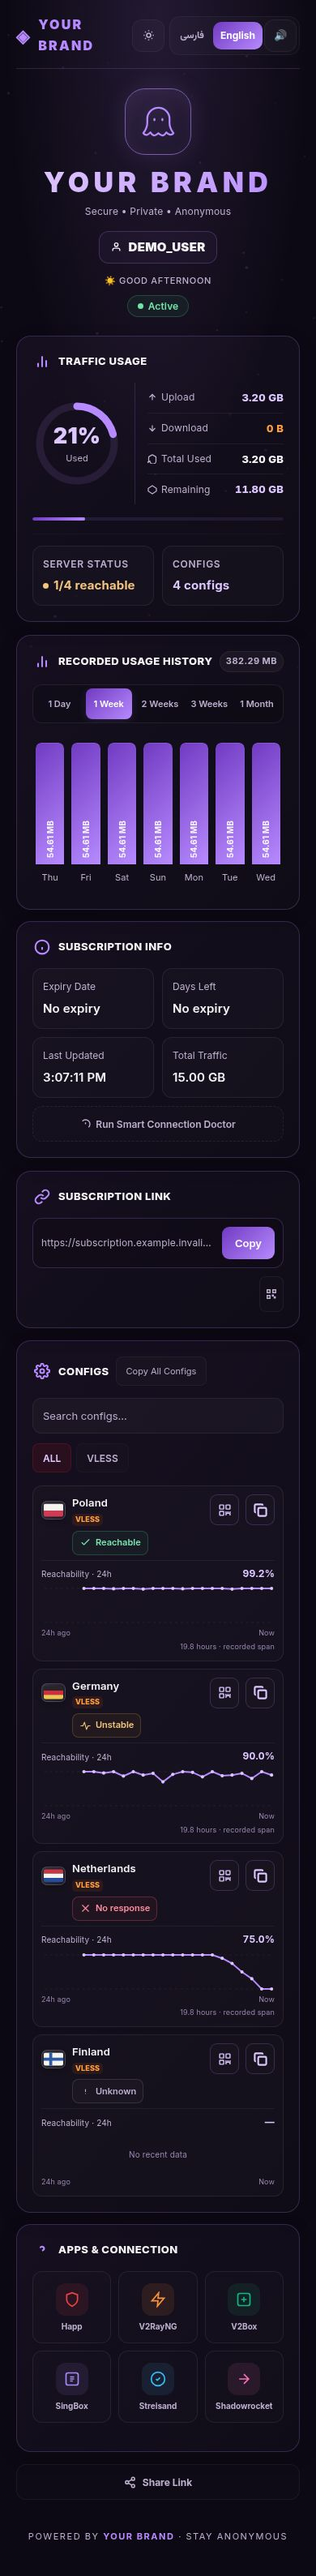
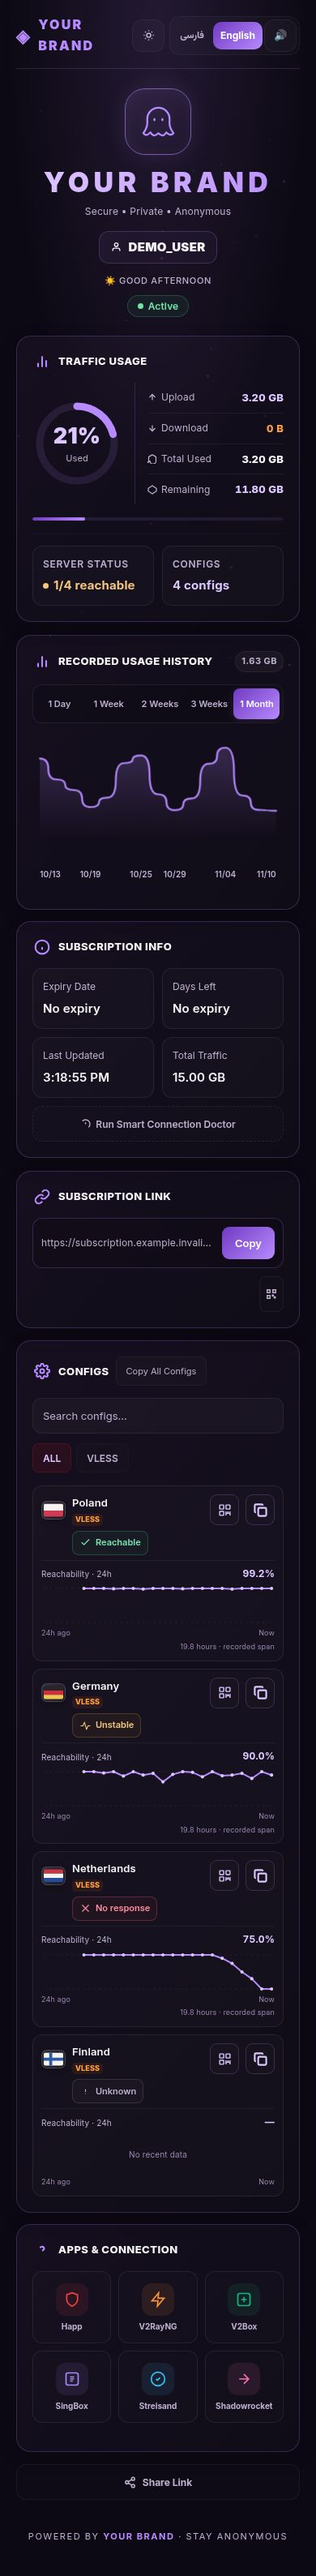
Show different chart ranges across all four themes

Changed region(s): [[0.0923, 0.2493, 0.8923, 0.3428]]

diff --git a/scripts/build_preview.py b/scripts/build_preview.py
@@ -1,12 +1,19 @@
 #!/usr/bin/env python3
 """Generate safe static illustrative fixtures, never real panel credentials."""
 from pathlib import Path
-import re, json, time, hashlib
+import re, json, time, hashlib, math
 from branding import render
 ROOT = Path(__file__).resolve().parent.parent
 out = ROOT / 'preview';out.mkdir(exist_ok=True)
 now = int(time.time()*1000)
-points=[{'t':now-(60-i)*86400000,'used':int(3.2*1024**3*i/60)} for i in range(61)]
+hours=60*24
+weights=[(0.65+0.35*math.sin((i//24)*0.63))*(0.45+0.9*((i//24*17)%11)/10)*(0.35+0.65*(1+math.sin(i*math.pi/12-1))/2) for i in range(hours)]
+scale=3.2*1024**3/sum(weights)
+points=[{'t':now-hours*3600000,'used':0}]
+used=0
+for i,weight in enumerate(weights,1):
+ used+=weight*scale
+ points.append({'t':now-(hours-i)*3600000,'used':int(used)})
 links = '\n'.join('vless://00000000-0000-4000-8000-000000000001@'+name.lower()+'.example.invalid:443?security=tls&type=tcp#'+name for name in ['Poland','Germany','Netherlands','Finland'])
 demo_feed={'schema':1,'generated_at':now//1000,'interval_seconds':60,'probe_label':'DEMO · outside probe','measurement':'tcp_connect_samples','nodes':{}}
 for name,code,state in [('Poland','PL','up'),('Germany','DE','unstable'),('Netherlands','NL','down')]:
@@ -16,6 +23,9 @@ for name,code,state in [('Poland','PL','up'),('Germany','DE','unstable'),('Nethe
 for panel in ['sub','marzban','pasarguard']:
  for theme in ['red','green','blue','purple']:
   source,_ = render((ROOT/(panel+'.html')).read_text(),'YOUR BRAND',theme,'ghost')
+  chart_range={'red':'day','green':'week','blue':'week3','purple':'month'}[theme]
+  source=source.replace("let _chartRange = 'week';", "let _chartRange = '"+chart_range+"';")
+  source=re.sub(r'(<button class="chart-tab)(?: active)?(" data-range=")([a-z0-9]+)(")',lambda m:m[1]+(' active' if m[3]==chart_range else '')+m[2]+m[3]+m[4],source)
   source=re.sub(r'\{% for link in .*?%\}.*?\{% endfor %\}',lambda _:links,source,flags=re.S)
   source=re.sub(r'\{\{ range \.links \}\}.*?\{\{ end \}\}',lambda _:links,source,flags=re.S)
   def value(m):
@@ -41,7 +51,6 @@ for panel in ['sub','marzban','pasarguard']:
    source=source.replace('let ghostUsageCache=null;', 'let ghostUsageCache={at:Infinity,data:'+json.dumps(data)+'};ghostUsageCache.data.updated_at=Math.floor(Date.now()/1000);')
   name = 'index.html' if (panel,theme)==('marzban','red') else panel+'-'+theme+'.html'
   (out/name).write_text(source)
-points=[{'t':now-(60-i)*86400000,'used':int(3.2*1024**3*i/60)} for i in range(61)]
 (out/'usage_demo_user.json').write_text(json.dumps({'username':'demo_user','points':points}))
 (out/'manifest.json').write_text(json.dumps({'name':'Ghost Preview','display':'standalone','start_url':'./'}))
 print('Built 12 illustrative panel/theme fixtures in preview/')

diff --git a/README.md b/README.md
@@ -22,10 +22,10 @@
 
 <table>
   <tr>
-    <th>قرمز</th>
-    <th>سبز</th>
-    <th>آبی</th>
-    <th>بنفش</th>
+    <th>قرمز · ۱ روز</th>
+    <th>سبز · ۱ هفته</th>
+    <th>آبی · ۳ هفته</th>
+    <th>بنفش · ۱ ماه</th>
   </tr>
   <tr>
     <td width="25%" valign="top"><img src="screenshots/preview-red.jpg" alt="تم قرمز" width="220"></td>
